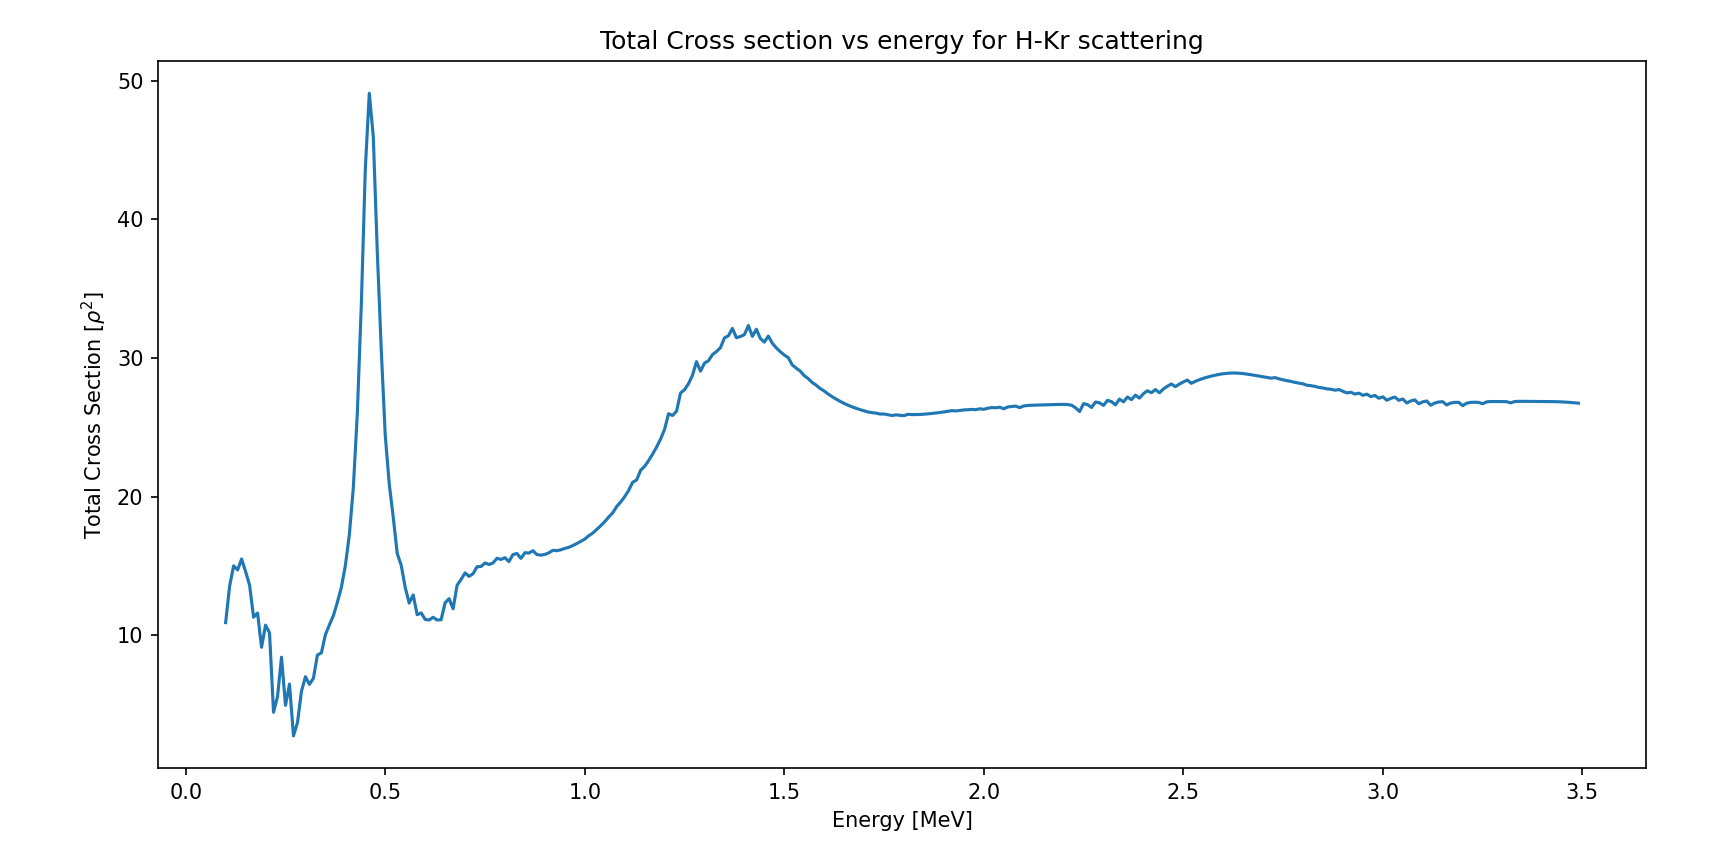
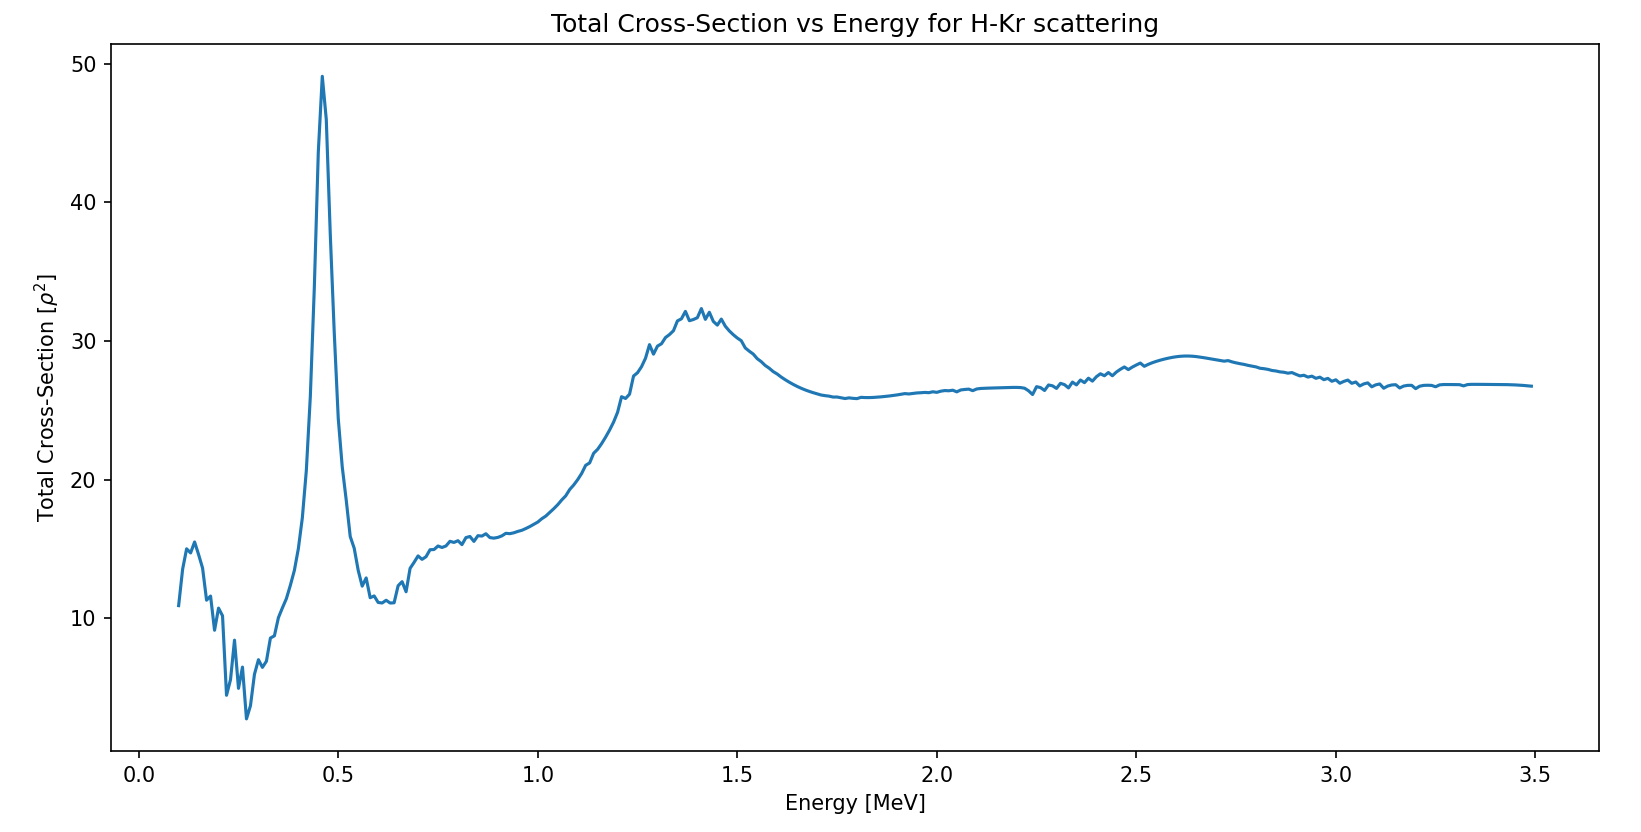
fixed - errors

diff --git a/quantum-scattering/hydrogen-scattering-by-krypton-atoms.py b/quantum-scattering/hydrogen-scattering-by-krypton-atoms.py
@@ -46,6 +46,6 @@ for i,E in enumerate(EArray):
 #graph
 plt.plot(EArray,totalCrossSectionList)
 plt.xlabel("Energy [MeV]")
-plt.ylabel(r'Total Cross Section [$\rho^2$]')
-plt.title("Total Cross section vs energy for H-Kr scattering")
+plt.ylabel(r'Total Cross-Section [$\rho^2$]')
+plt.title("Total Cross-Section vs Energy for H-Kr scattering")
 plt.show()

diff --git a/quantum-scattering/summary.md b/quantum-scattering/summary.md
@@ -1,6 +1,6 @@
 # Quantum Scattering Project
 
-This project, adapted from (Thijssen, 2013, p. 14), simulates molecule scattering experiments using the Lennard-Jones potential (Fischer, 2023, p. 2) to model interactions. These simulations are used to produce the differential cross section and total cross section.
+This project, adapted from (Thijssen, 2013, p. 14), simulates molecule scattering experiments using the Lennard-Jones potential (Fischer, 2023, p. 2) to model interactions. These simulations are used to produce the differential cross-section and total cross-section.
 
 ## Theory
 
@@ -46,7 +46,7 @@ $$\frac{d\sigma}{d\omega} = \frac{1}{k^2}\bigg|\sum^{\infty}_{l = 0}(2l+1)e^{i\d
 
 $$\sigma_{total}= \frac{4\pi}{k^2}\sum^{\infty}_{l = 0}(2l+1)sin^2(\delta_l)\tag{7}$$
 
-where $P_l(x)$ is the $l^{th}$ Legendre polynomial, $\frac{d\sigma}{d\omega}$ is the differential cross section and $\sigma_{total}$ is the total cross section. As with the simulations, the terms of the sums become negligible for $l>9$, meaning these terms do not need to be evaluated.
+where $P_l(x)$ is the $l^{th}$ Legendre polynomial, $\frac{d\sigma}{d\omega}$ is the differential cross-section and $\sigma_{total}$ is the total cross-section. As with the simulations, the terms of the sums become negligible for $l>9$, meaning these terms do not need to be evaluated.
 
 ### Summary of method
 
@@ -55,11 +55,11 @@ $ s via equation (5) and then plugging into equations (6) and (7) to deduce simu
 
 ## Implementation
 
-This project was implemented as a class called ScatteringSystem in spherically_symetric_quantum_scattering.py. This class takes in the initial conditions near the origin  (r_0,h,u_0,u_1)[^4], the energy of the system (E), the radius of the $V(r)\neq 0$ region (r_b1) and the max value of $l$ to calculate to (lCutoff[^5]). The class then runs the numerical simulation, deduces the $\delta_l$ s and finds the total cross section (stored as class.totalCrossSection). The differential cross section can then be found using the method differentialCrossSection().
+This project was implemented as a class called ScatteringSystem in spherically_symetric_quantum_scattering.py. This class takes in the initial conditions near the origin  (r_0,h,u_0,u_1)[^4], the energy of the system (E), the radius of the $V(r)\neq 0$ region (r_b1) and the max value of $l$ to calculate to (lCutoff[^5]). The class then runs the numerical simulation, deduces the $\delta_l$ s and finds the total cross-section (stored as class.totalCrossSection). The differential cross-section can then be found using the method differentialCrossSection().
 
 ## Example
 
-In hydrogen-scattering-by-krypton-atoms.py the project is used to deduce the total cross section at different energies for scattering of hydrogen with krypton atoms. The distribution found is:
+In hydrogen-scattering-by-krypton-atoms.py the project is used to deduce the total cross-section at different energies for scattering of hydrogen with krypton atoms. The distribution found is:
 
 ![alt text](https://raw.githubusercontent.com/Williame33445/physics-projects/main/quantum-scattering/total-cross-section-vs-energy-for-H-Kr-scattering.png)
 
@@ -78,7 +78,7 @@ Fischer, J.; Wendland, M., 2023, On the history of key empirical intermolecular 
 
 [^2]: For a theoretical justification see (Thijssen, 2013, p. 18)
 
-[^3]: There are two common types of scattering parameter: differential cross section and total cross section. Differential cross section is a function of theta and phi. It is proportional to the probability of a particle scattering in that direction. Total cross section is a number. It is proportional to the probability of a particle being scattered.
+[^3]: There are two common types of scattering parameter: differential cross-section and total cross-section. Differential cross-section is a function of theta and phi. It is proportional to the probability of a particle scattering in that direction. Total cross-section is a number. It is proportional to the probability of a particle being scattered.
 
 [^4]: Instead of r_0 and r_1, r_0 and h = r_1 - r_0 is given.
 
